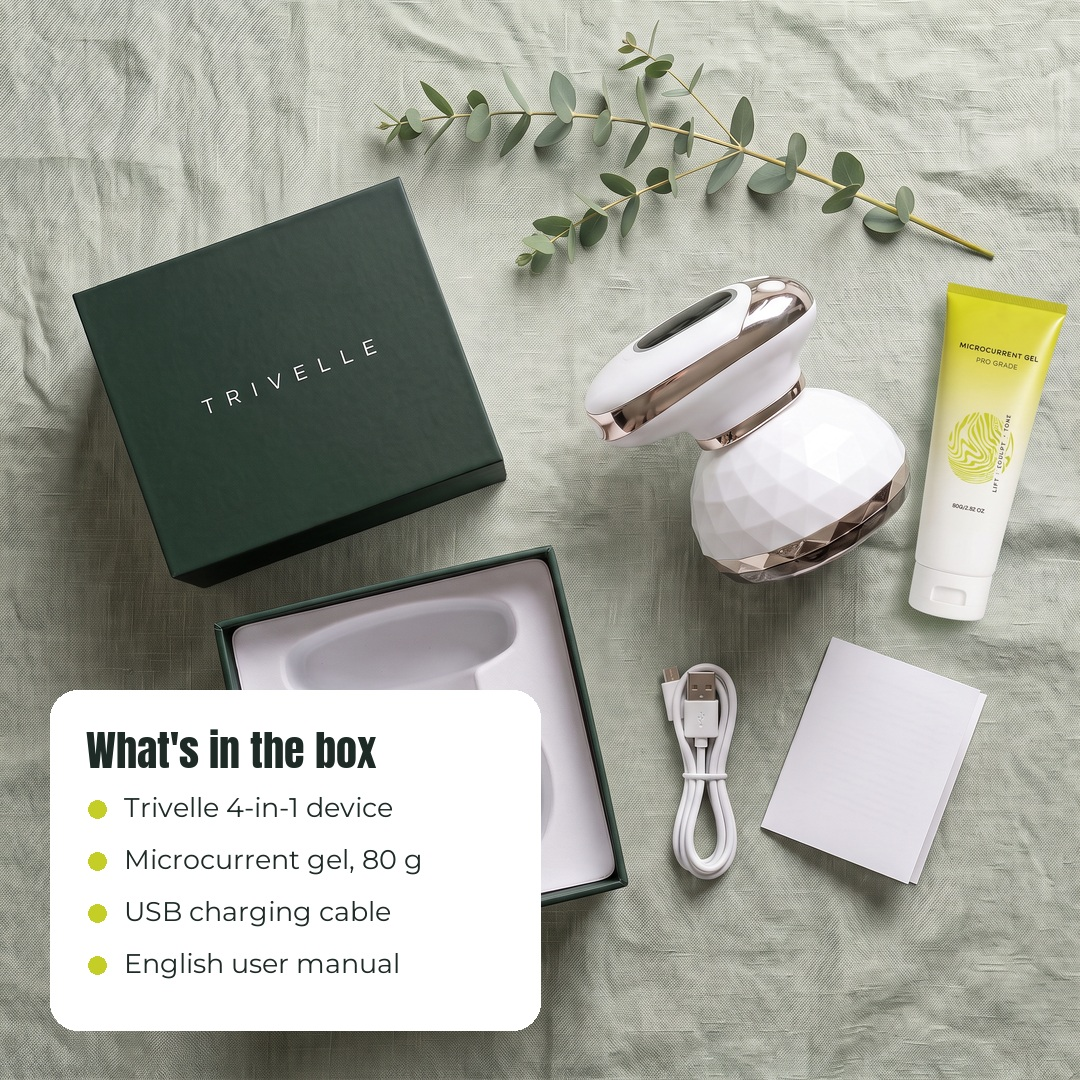
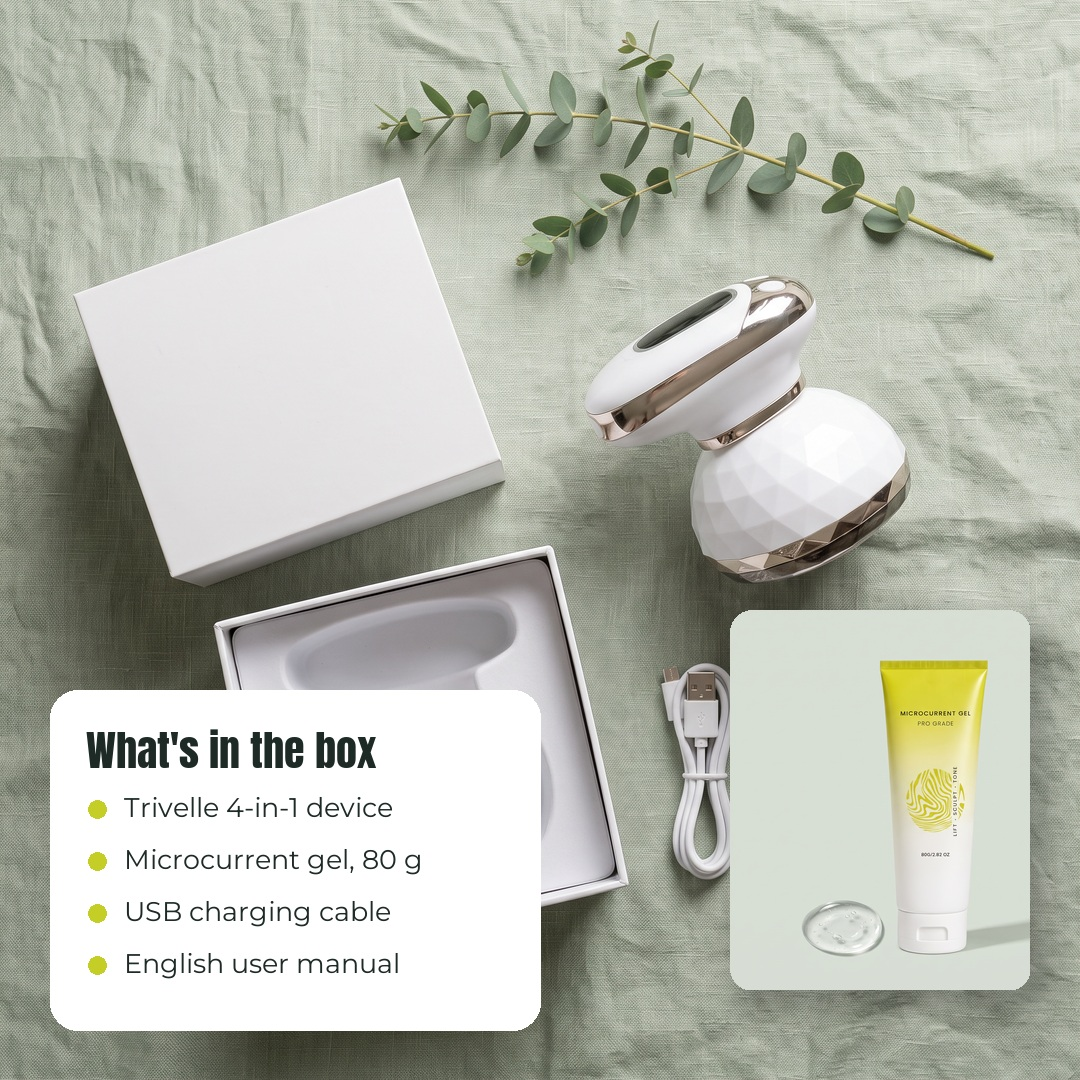
Trivelle: stock-box in-the-box graphic, packaging plan

diff --git a/projects/trivelle-beauty/scripts/graphics_v3.py b/projects/trivelle-beauty/scripts/graphics_v3.py
@@ -183,7 +183,10 @@ for i, (r, h) in enumerate(zip(rows, have)):
 save(im, "06-comparison")
 
 # 07 — In the box: flatlay + the real gel tube
-im = fit(f"{S}/08-unbox-gel.png", N, N).convert("RGBA")
+im = fit(f"{S}/03-flatlay.png", N, N).convert("RGBA")
+gel = rounded(fit(f"{S}/09-gel-studio.png", 300, 380, (0.8, 0.5)), 22)
+sh = Image.new("RGBA", (N, N), (0, 0, 0, 0)); ImageDraw.Draw(sh).rounded_rectangle((736, 618, 1046, 1008), 22, fill=(0, 0, 0, 70))
+im.alpha_composite(sh.filter(ImageFilter.GaussianBlur(14))); im.alpha_composite(gel, (730, 610))
 d = ImageDraw.Draw(im)
 d.rounded_rectangle((50, 690, 540, 1030), 28, fill=WHITE)
 d.text((86, 718), "What's in the box", font=f("D", 42), fill=INK)

diff --git a/projects/trivelle-beauty/LAUNCH-CHECKLIST.md b/projects/trivelle-beauty/LAUNCH-CHECKLIST.md
@@ -37,3 +37,7 @@ Do these in order. Shopify admin works on your phone too (Shopify app).
 ## Known issues in the ads
 - Presenters say "Trevolz" (hook) / "Trivel" (seated) — AI mispronunciation; captions read Trivelle. Fine for testing; re-roll if one wins.
 - All presenters/models are AI-generated. Meta and TikTok require AI-content labels on realistic AI people: tick "AI-generated / altered" when uploading.
+
+## Packaging
+- Launch with the supplier's stock box. In-the-box graphic shows a plain white box to match.
+- Custom box later (~A$900–1,000 for 500 incl. inserts + sample) once sales are steady. Current green design in `packaging/` is a placeholder — redo with more character (gel-wave pattern, lighter stock, emboss/foil) before ordering.
